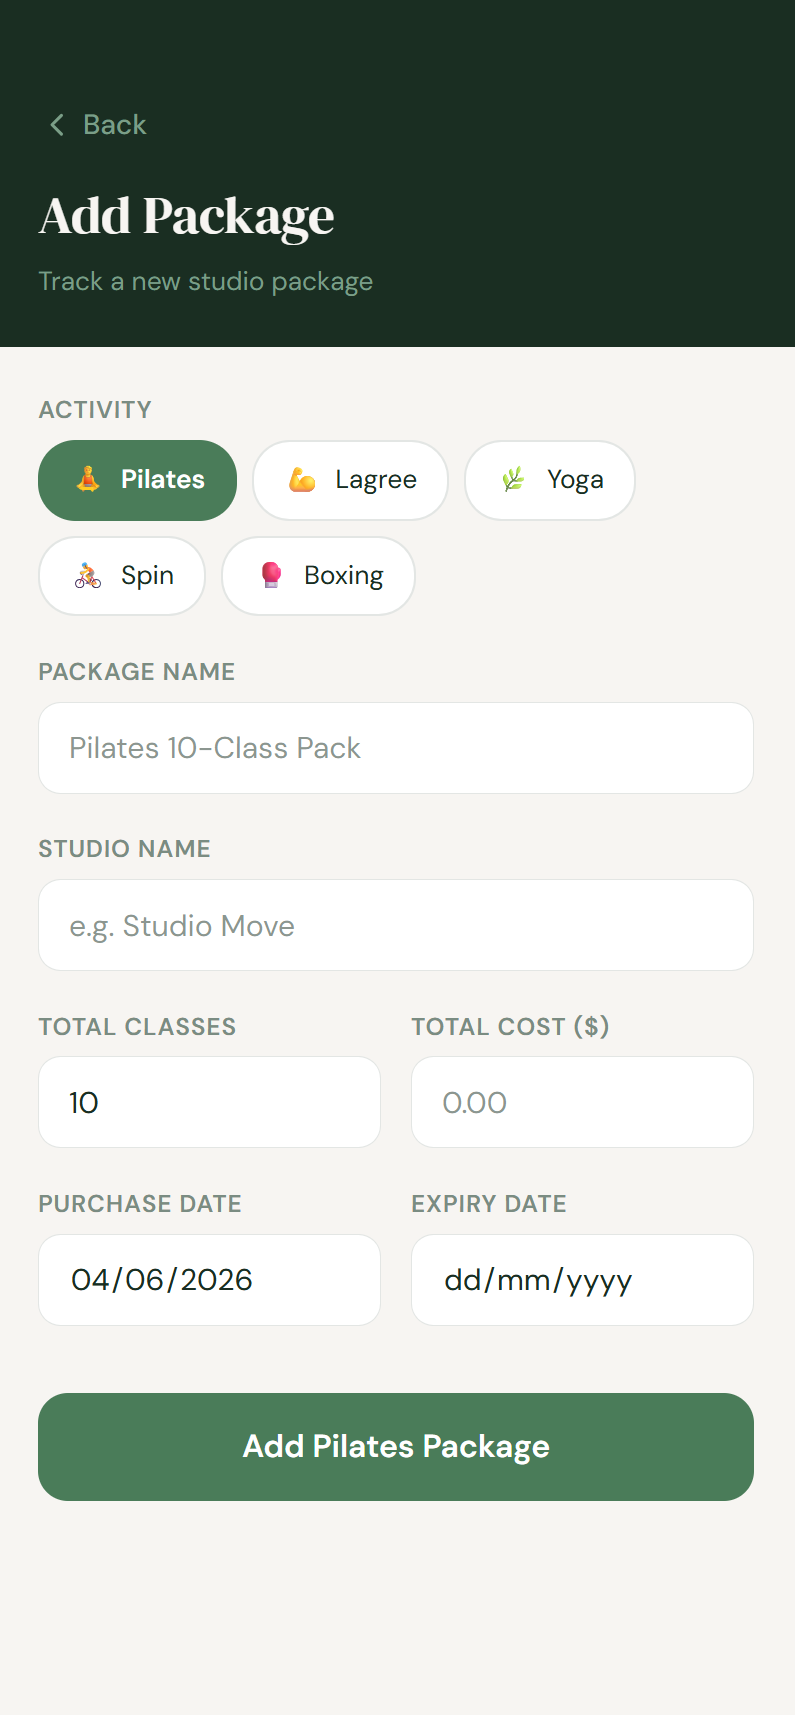
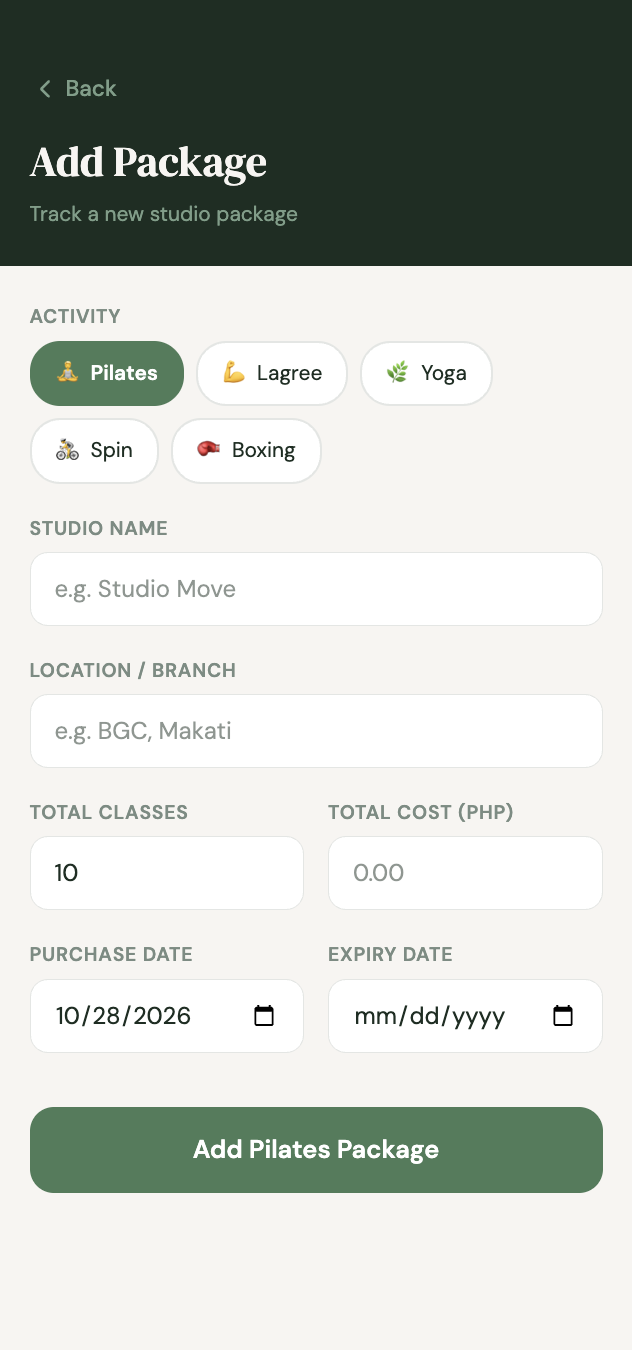
Updated Studio Track description, images, and explore link

diff --git a/index.html b/index.html
@@ -274,31 +274,27 @@
         </p>
 
         <p>
-          <strong>Problem:</strong> Boutique fitness users often manage multiple
-          studio packages and struggle to track remaining classes, expiration
-          dates, and spending across different platforms.
+          <strong>Problem:</strong> Managing multiple memberships makes it
+          difficult to track remaining classes, package expirations, and total
+          spending.
         </p>
 
         <p>
-          <strong>Solution:</strong> StudioTrack centralizes package management,
-          attendance tracking, and fitness insights into one streamlined mobile
-          app. Users can easily log classes, monitor remaining sessions, track
-          package expirations, and understand their spending across multiple
-          studios in a single organized dashboard.
+          <strong>Solution:</strong> A centralized dashboard for package
+          balances, class history, attendance streaks, and cost-per-class
+          insights.
         </p>
 
         <ul class="project-meta">
-          <li><strong>Tools:</strong> Figma</li>
-          <li><strong>Role:</strong> UI/UX Designer</li>
+          <li><strong>Tools:</strong> Figma, React, TypeScript</li>
+          <li><strong>Role:</strong> UI/UX & Product Design</li>
           <li>
-            <strong>Focus:</strong> Personal UX/UI Case Study, User Journey,
-            Wellness Tracking, Product Thinking
+            <strong>Focus:</strong> User Experience, Dashboard Design, Product
+            Thinking
           </li>
           <li>
             <strong>Link:</strong>
-            <a
-              href="https://www.figma.com/make/OtEC7rSUreZIBcBfcHxhUE/Wellness-Studio-Tracker?fullscreen=1&t=DalR42qpssHxxlWZ-1&code-node-id=0-9"
-              target="_blank"
+            <a href="https://studio-tracker-zqar.vercel.app/" target="_blank"
               >Explore StudioTrack</a
             >
           </li>
